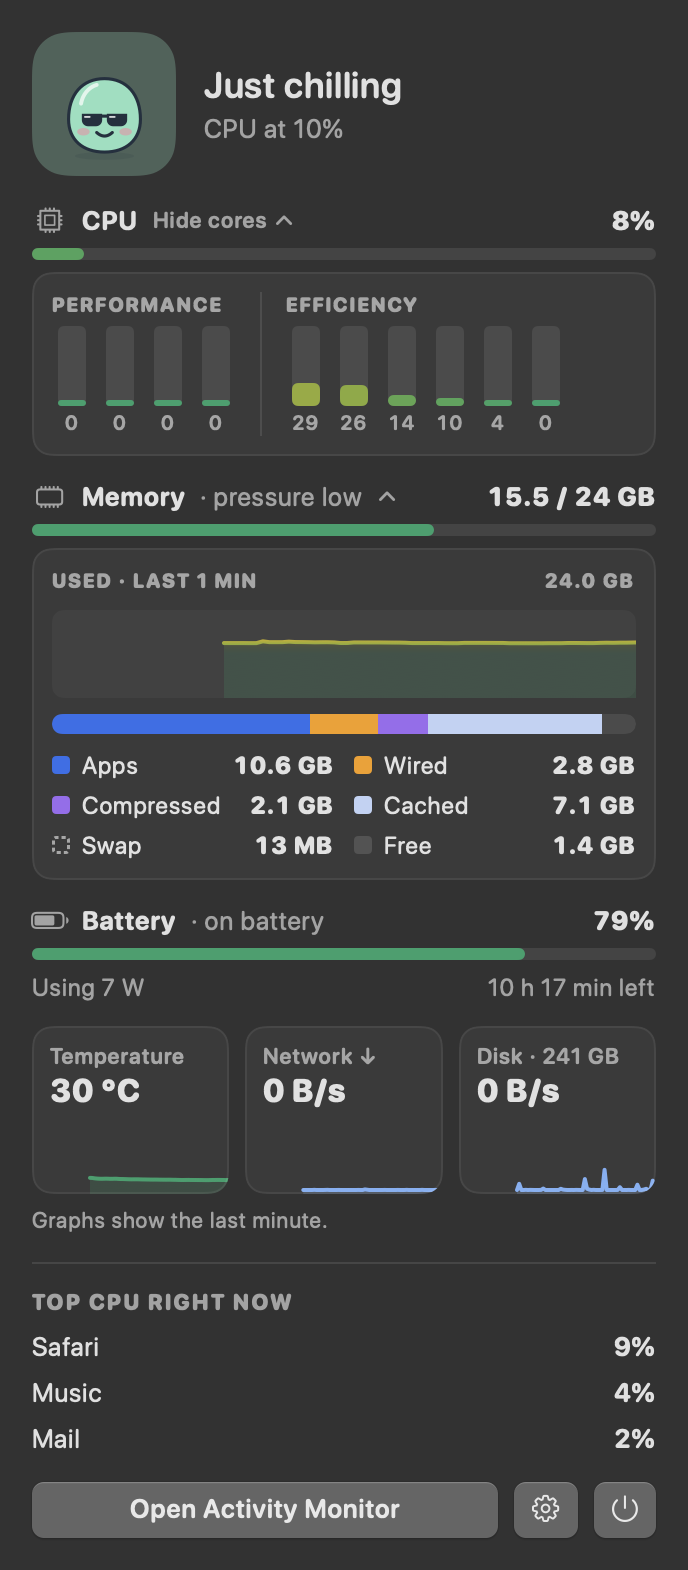
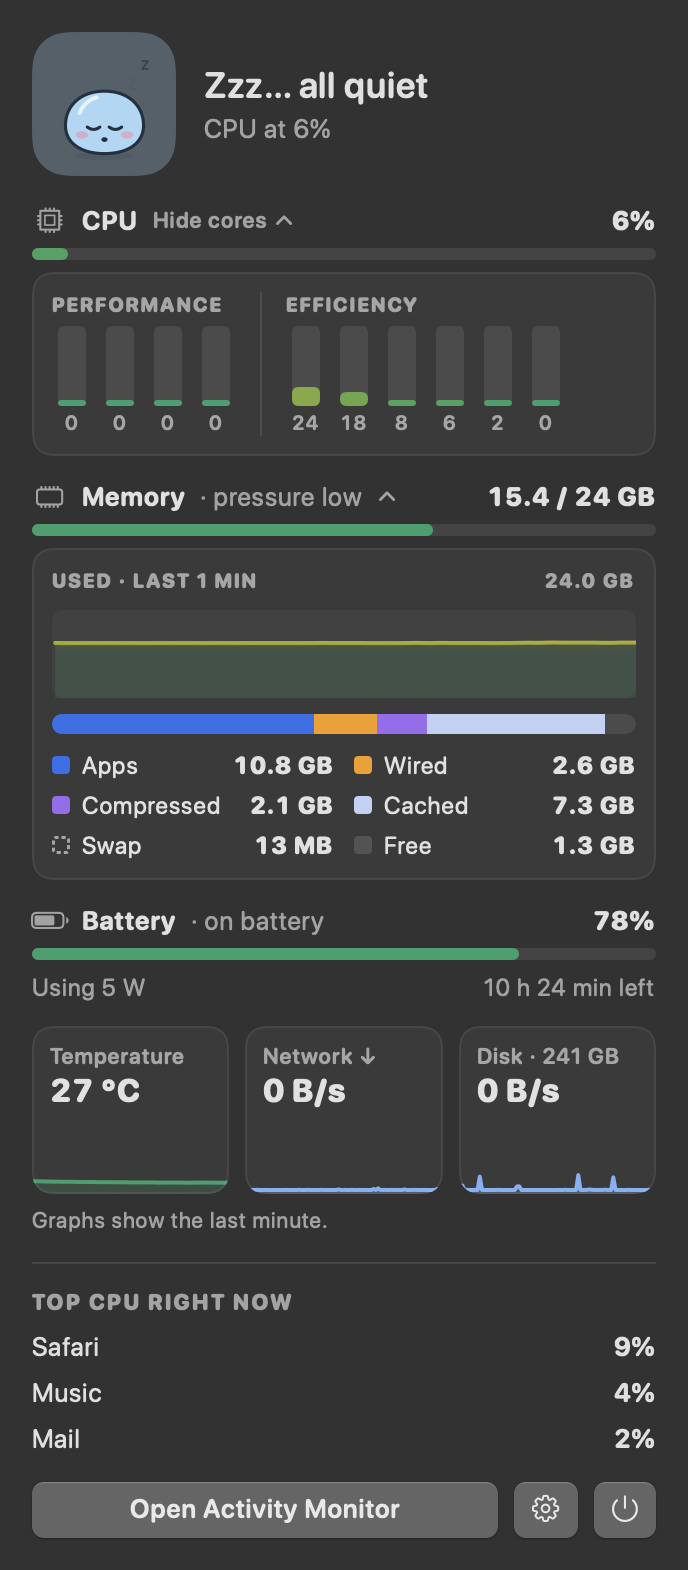
Keep the panel subtitle's numbers in step with the bars
Blipp's look and headline only change at the "Update Blipp every" pace,
and the subtitle was refreshed with them, so with the panel open it
could say "CPU at 12%" right above a bar showing 8%. While the panel is
open the subtitle now follows every sample; the plain CPU line updates
even when the headline is about to flip between sleeping and chilling.

The README pictures are re-rendered with the fix, and the renderer now
samples for 65 seconds so the one-minute graphs are full.

diff --git a/Sources/Blipp/Monitor/SystemMonitor.swift b/Sources/Blipp/Monitor/SystemMonitor.swift
@@ -49,6 +49,7 @@ final class SystemMonitor: ObservableObject {
     private let moodEngine = MoodEngine()
     private var lastMoodUpdate: TimeInterval = -.infinity
     private var smoothedCPU: Double = 0
+    private var panelOnScreen = false
 
     /// With the panel open: the whole set of die sensors is refreshed every ~4 samples.
     private enum Visible {
@@ -111,6 +112,7 @@ final class SystemMonitor: ObservableObject {
 
     /// The panel shows graphs, processes and live battery details, so it gets them at full rate.
     func setPanelVisible(_ visible: Bool) {
+        panelOnScreen = visible
         queue.async { [weak self] in
             guard let self, self.panelVisible != visible else { return }
             self.panelVisible = visible
@@ -262,12 +264,19 @@ final class SystemMonitor: ObservableObject {
         DispatchQueue.main.async { [weak self] in self?.graphs = graphs }
     }
 
+    /// Blipp's look and headline change at the "Update Blipp every" pace. The subtitle quotes live
+    /// numbers ("CPU at 8%"), so while the panel is open it follows every sample instead; otherwise
+    /// it would disagree with the bars right below it.
     private func updateMood(now: TimeInterval, force: Bool) {
-        guard force || now - lastMoodUpdate >= prefs.moodInterval - 0.1 else { return }
-        lastMoodUpdate = now
+        let due = force || now - lastMoodUpdate >= prefs.moodInterval - 0.1
+        guard due || panelOnScreen else { return }
         let next = moodEngine.mood(for: snapshot, smoothedCPU: smoothedCPU)
-        if next != mood {
-            mood = next
+        if due {
+            lastMoodUpdate = now
+            if next != mood { mood = next }
+        } else if next.subtitle != mood.subtitle,
+                  next.title == mood.title || (next.subtitleIsCPULine && mood.subtitleIsCPULine) {
+            mood.subtitle = next.subtitle
         }
     }
 }

diff --git a/Sources/Blipp/App/ReadmeImages.swift b/Sources/Blipp/App/ReadmeImages.swift
@@ -3,7 +3,7 @@ import SwiftUI
 
 /// Developer tool: `Blipp --render-readme <folder>` renders the pictures used in README.md:
 /// a labelled mood gallery, the menu bar icons, the app icon, and the real panel in light and
-/// dark mode (sampled from this Mac for ~40 s so the graphs have something to show).
+/// dark mode (sampled from this Mac for 65 s, so the one-minute graphs are full).
 @MainActor
 enum ReadmeImages {
     static func render(to path: String) {
@@ -114,7 +114,7 @@ enum ReadmeImages {
             ProcessUsage(pid: 3, name: "Mail", cpu: 2),
         ])
         monitor.setPanelVisible(true)
-        RunLoop.main.run(until: Date().addingTimeInterval(40))
+        RunLoop.main.run(until: Date().addingTimeInterval(65))
 
         for (name, appearance) in [("panel-light.png", NSAppearance.Name.aqua), ("panel-dark.png", NSAppearance.Name.darkAqua)] {
             if let image = snapshotPanel(monitor: monitor, prefs: prefs, appearance: appearance) {

diff --git a/Sources/Blipp/Blipp/MoodEngine.swift b/Sources/Blipp/Blipp/MoodEngine.swift
@@ -4,6 +4,9 @@ struct Mood: Equatable {
     var scene: BlippScene
     var title: String
     var subtitle: String
+    /// True when the subtitle is the plain CPU line ("CPU at 8%" or "Safari is using 40% CPU"),
+    /// which can be refreshed with new numbers whatever the headline says.
+    var subtitleIsCPULine = false
 
     static let initial = Mood(scene: BlippScene(), title: "Hi, I'm Blipp!", subtitle: "Taking a first look at your Mac…")
 }
@@ -249,7 +252,7 @@ final class MoodEngine {
             text = ("Just chilling", defaultSubtitle)
         }
 
-        return Mood(scene: scene, title: text.0, subtitle: text.1)
+        return Mood(scene: scene, title: text.0, subtitle: text.1, subtitleIsCPULine: text.1 == defaultSubtitle)
     }
 
     private func batteryMood(_ battery: BatteryInfo?) -> BatteryMood {

diff --git a/README.md b/README.md
@@ -134,7 +134,7 @@ swift build -c release
 BIN="$(swift build -c release --show-bin-path)"
 "$BIN/Blipp" --benchmark --sensors        # time every sampler and list the temperature sensors
 "$BIN/Blipp" --render-gallery /tmp/blipp  # PNGs of every state and menu bar icon
-"$BIN/Blipp" --render-readme docs         # regenerate the pictures in this README (takes ~40 s)
+"$BIN/Blipp" --render-readme docs         # regenerate the pictures in this README (takes ~70 s)
 open build/Blipp.app --args --debug-panel-cycle  # open the panel, expand and collapse both sections, close it
 ```
 
